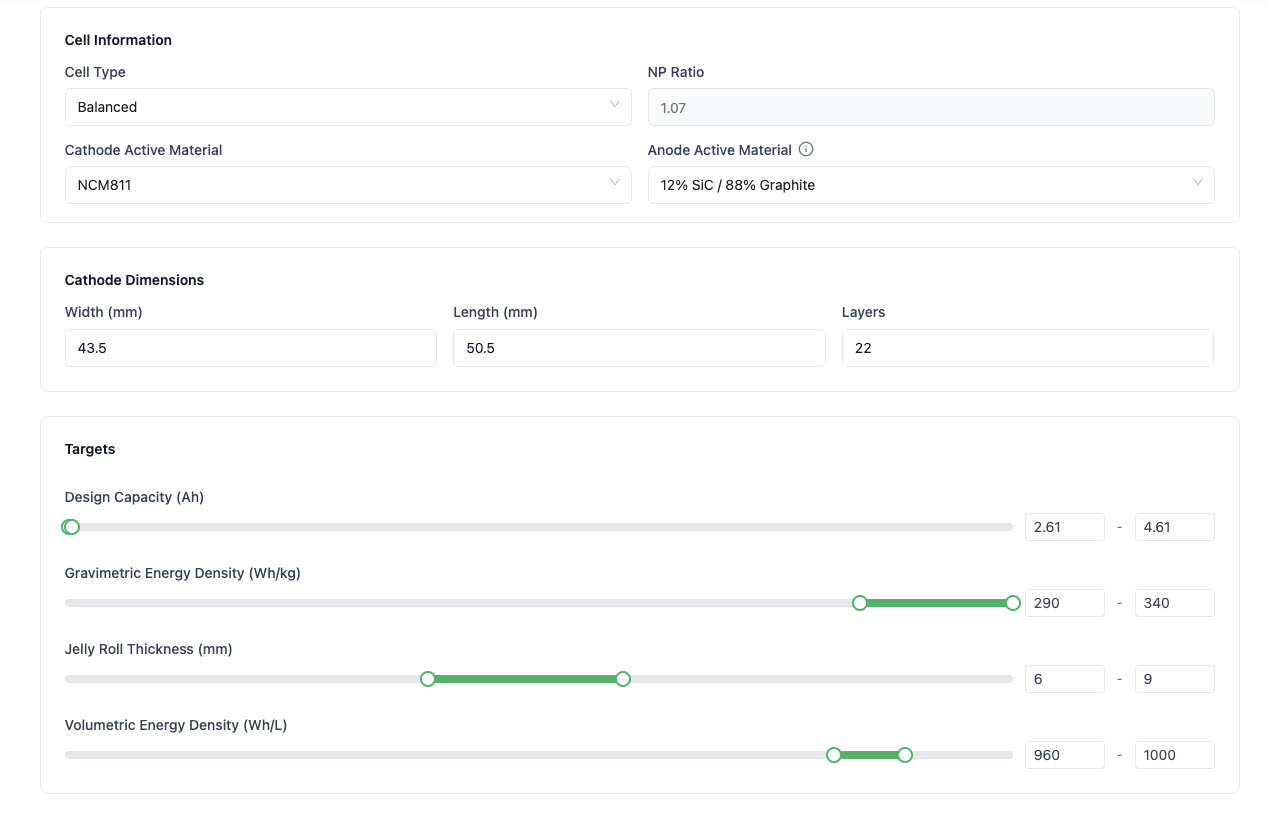
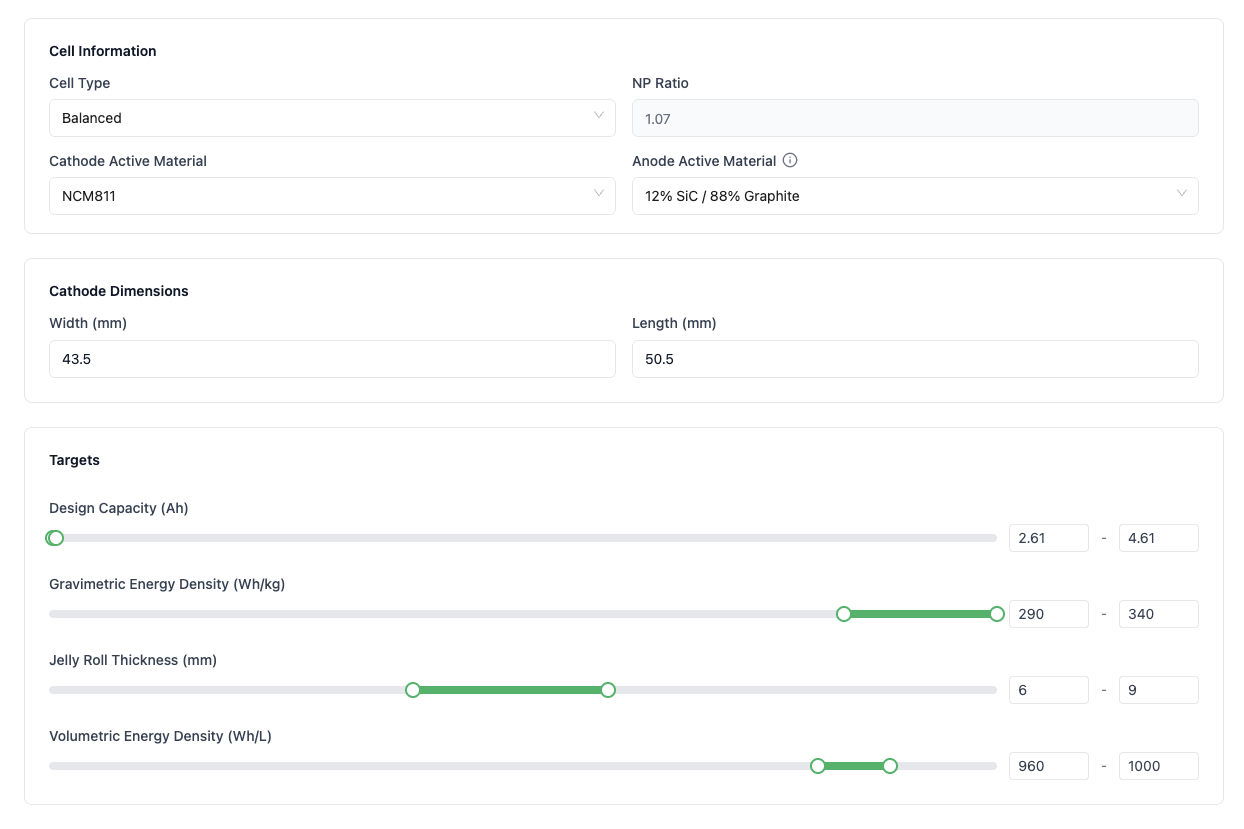
feat: update example introduction

diff --git a/src/pages/Design/Electrode/Optimize/components/DesignDetailsModal/index.tsx b/src/pages/Design/Electrode/Optimize/components/DesignDetailsModal/index.tsx
@@ -135,7 +135,7 @@ const DesignDetailsModal: React.FC<DesignDetailsModalProps> = ({
               <PerformanceCard
                 label="Design Capacity"
                 value={data.design_capacity}
-                unit="mAh"
+                unit="Ah"
               />
               <PerformanceCard
                 label="Specific E.D."
